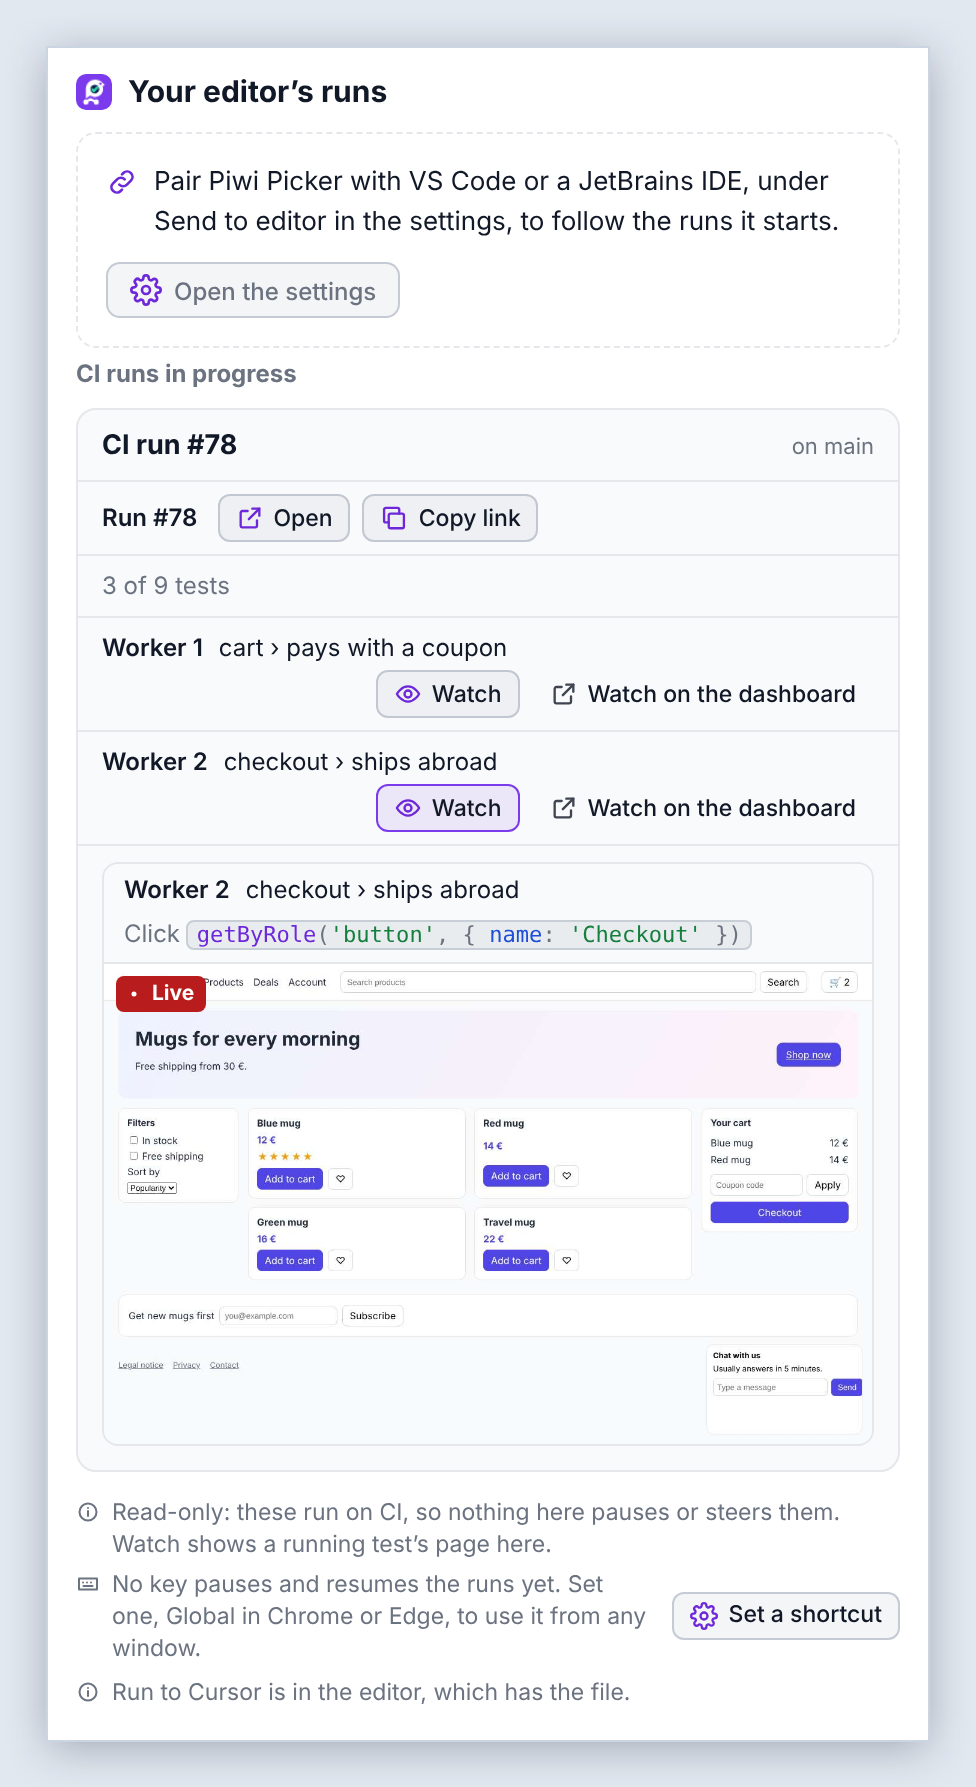
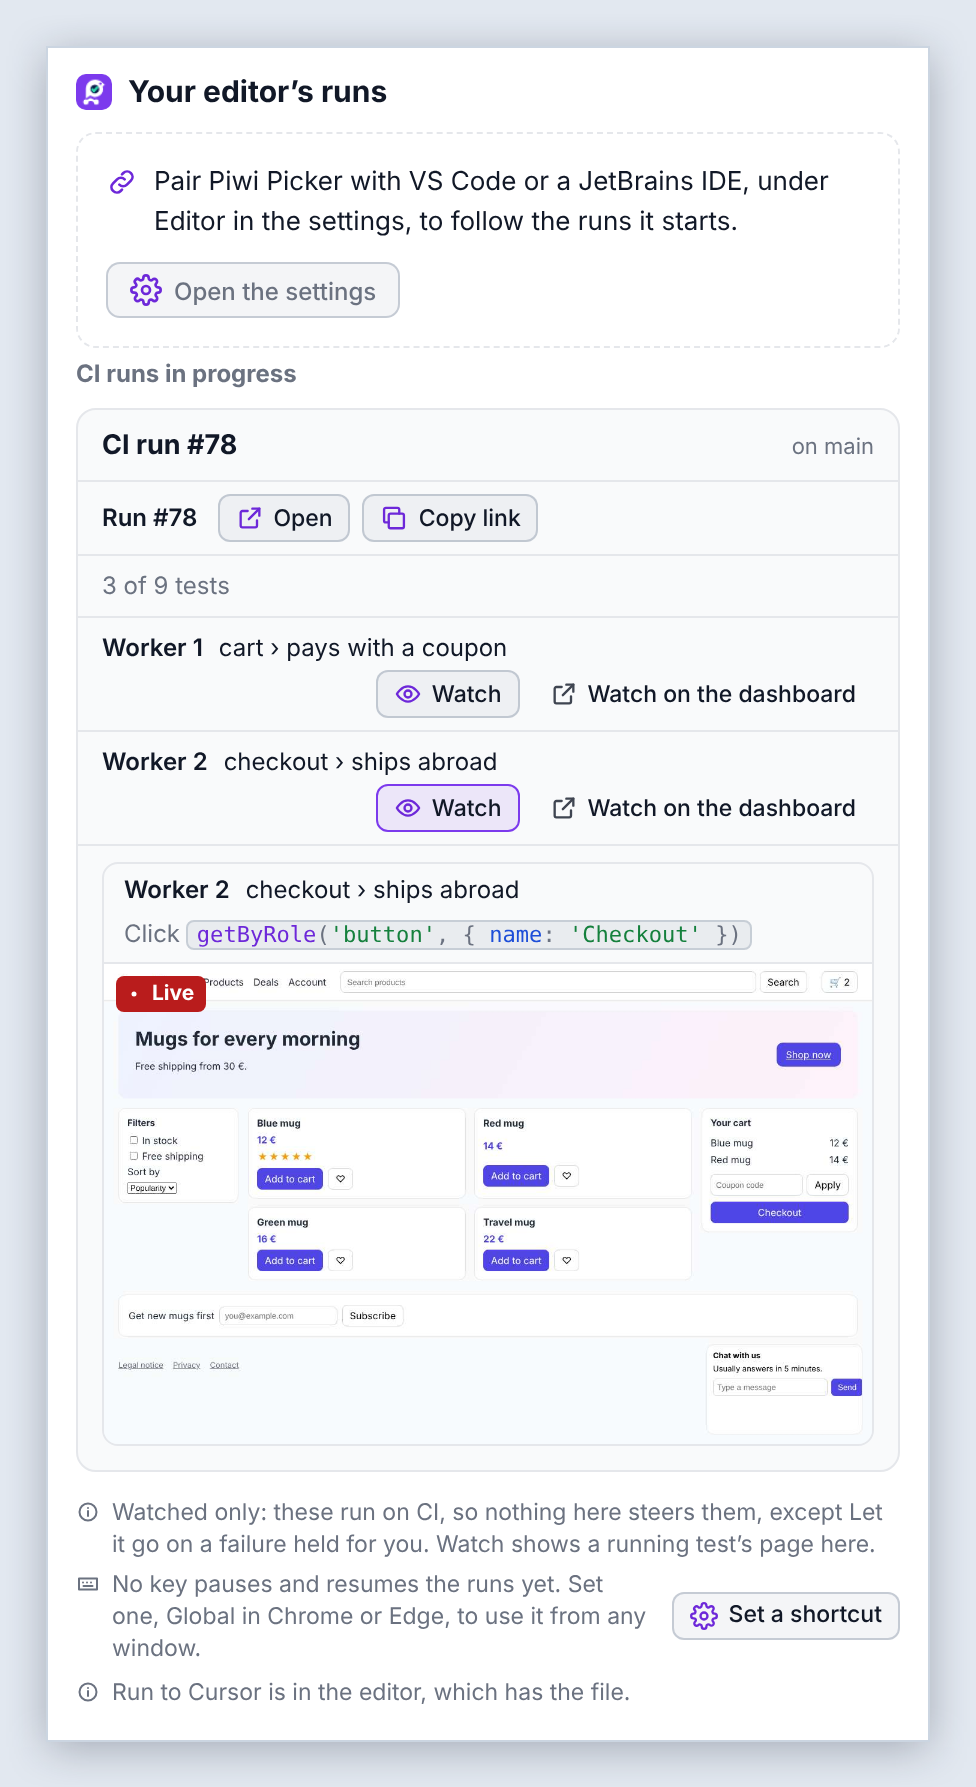
fix(extension): ask Let it go once per CI hold, and name it as the one thing that steers a CI run
The Runs window keeps Let it go off once asked of a hold until that hold ends,
or until the instance refuses it (LetGoAsks and ciHoldKey in the run model),
so a second press no longer gets a refusal in place of the answer. The CI
runs' note says what reaches them in all five languages: nothing but Let it
go on a failure held for you. The end-to-end check tells the instance's
refusal from the window's own words.

Claude-Session: https://claude.ai/code/session_01ADXAbeVo5hXs63eeexKcKH

Changed region(s): [[0.123, 0.831, 0.8607, 0.8926], [0.2459, 0.1231, 0.7377, 0.1539], [0.8607, 0.8618, 0.8914, 0.8926]]

diff --git a/apps/extension/src/runs/main.ts b/apps/extension/src/runs/main.ts
@@ -23,7 +23,16 @@ import {
   runLevelControls,
   type Control,
 } from '@piwitests/run-model/controls';
-import { CI_READ_ONLY, ciHoldWords, ciRunName, ciRunWhere, offersLetGo, type CiHold } from '@piwitests/run-model/ci';
+import {
+  CI_READ_ONLY,
+  LetGoAsks,
+  ciHoldKey,
+  ciHoldWords,
+  ciRunName,
+  ciRunWhere,
+  offersLetGo,
+  type CiHold,
+} from '@piwitests/run-model/ci';
 import {
   asksLaneTextAgain,
   callWait,
@@ -1297,8 +1306,6 @@ interface CiView extends RunsCiLane {
   call: string | null;
   /** The instance said this window's watch of the lane counts as a controller's: **Let it go** may be offered. */
   controller: boolean;
-  /** **Let it go** waits for its answer. */
-  lettingGo: boolean;
   /** What **Let it go** came to, until the lane's hold changes. */
   letGoNote: { ok: boolean; text: string } | null;
 }
@@ -1342,7 +1349,6 @@ function toggleCi(lane: RunsCiLane): void {
     test: null,
     call: null,
     controller: false,
-    lettingGo: false,
     letGoNote: null,
   };
   askCi(ciView);
@@ -1460,10 +1466,15 @@ function heardCiController(heard: RunsCiLane & { controller: boolean }): void {
   render();
 }
 
-/** **Let it go** on the held failure of the CI lane watched: the instance's sentence, or why not, under the hold. */
-async function letGoCi(view: CiView): Promise<void> {
-  if (view.lettingGo) return;
-  view.lettingGo = true;
+/** **Let it go** asked of each CI lane's hold: its button off from the ask until that hold ends or is refused. */
+const letGoAsks = new LetGoAsks();
+
+/**
+ * **Let it go** on the held failure of the CI lane watched, once per hold (`letGoAsks`): the instance's sentence, or
+ * why not, under the hold; a refusal lets it be asked again.
+ */
+async function letGoCi(view: CiView, hold: CiHold): Promise<void> {
+  if (!letGoAsks.ask(ciLaneKey(view), ciHoldKey(hold))) return;
   render();
   const lane = { runId: view.runId, shard: view.shard, lane: view.lane };
   const answer = await answered(
@@ -1471,8 +1482,8 @@ async function letGoCi(view: CiView): Promise<void> {
     { ok: false, message: '', ci: 'offline' },
     { ok: false, message: '', ci: 'late' },
   );
+  if (!answer.ok) letGoAsks.refused(ciLaneKey(view), ciHoldKey(hold));
   if (ciView !== view) return;
-  view.lettingGo = false;
   const text = answer.ok ? answer.message : letGoRefusalText(answer);
   view.letGoNote = text ? { ok: answer.ok, text } : null;
   if (text) announce(text);
@@ -2853,7 +2864,8 @@ function renderCiView(run: RunsCiRun, view: CiView): HTMLElement {
 function renderCiHeld(view: CiView, hold: CiHold): HTMLElement {
   const key = `ci|${ciLaneKey(view)}|held`;
   const offered = offersLetGo(hold, { shows: view.status === 'on', controller: view.controller });
-  return part(key, [hold, offered, view.lettingGo, view.letGoNote], () => {
+  const asked = letGoAsks.asked(ciLaneKey(view), ciHoldKey(hold));
+  return part(key, [hold, offered, asked, view.letGoNote], () => {
     const words = ciHoldWords(hold, runsSpeaker);
     const box = element('div', 'ci-held-box');
     box.setAttribute('role', 'status');
@@ -2866,12 +2878,12 @@ function renderCiHeld(view: CiView, hold: CiHold): HTMLElement {
       const letGo = makeButton(
         runsSpeaker.say('runs_letGo'),
         (event) => {
-          if (!pressedHeld(event)) void letGoCi(view);
+          if (!pressedHeld(event)) void letGoCi(view, hold);
         },
         { icon: 'play', small: true, title: runsSpeaker.say('runs_letGoTitle') },
       );
       letGo.dataset.focus = `ci|${ciLaneKey(view)}|let-go`;
-      if (view.lettingGo) letGo.setAttribute('aria-disabled', 'true');
+      if (asked) letGo.setAttribute('aria-disabled', 'true');
       box.append(element('div', 'piwi-actions', letGo));
     }
     if (view.letGoNote) {

diff --git a/packages/run-model/tests/ci.test.ts b/packages/run-model/tests/ci.test.ts
@@ -5,6 +5,8 @@ import {
   ciRunName,
   ciRunWhere,
   ciRunsListed,
+  LetGoAsks,
+  ciHoldKey,
   ciHoldOf,
   ciHoldWords,
   ciTally,
@@ -87,7 +89,7 @@ describe('the CI runs of a project in progress', () => {
     expect(where(run(78), true)).toBe('Shop, on feature/pay');
     expect(where(run(78, { branch: null }), true)).toBe('Shop');
     expect(where(run(78, { branch: null }), false)).toBeNull();
-    expect(en.say(CI_READ_ONLY.key)).toContain('Read-only');
+    expect(en.say(CI_READ_ONLY.key)).toContain('nothing here steers them, except Let it go on a failure held for you');
   });
 });
 
@@ -161,5 +163,40 @@ describe('a CI test held at its failure for its controllers', () => {
     expect(offersLetGo(hold, { shows: true, controller: false })).toBe(false);
     expect(offersLetGo(hold, { shows: false, controller: true })).toBe(false);
     expect(offersLetGo(null, { shows: true, controller: true })).toBe(false);
+  });
+});
+
+describe('Let it go asked of a CI hold', () => {
+  const hold = (worker: number, until: number | null = 1_763_727_900_000) => ({
+    worker: { shard: null, worker, slot: 1 },
+    call: { title: 'boom', file: null, line: null },
+    until,
+    heldFor: [],
+  });
+
+  it('names each hold of each worker apart', () => {
+    expect(ciHoldKey(hold(4))).toBe(':4:1763727900000');
+    expect(ciHoldKey(hold(4, null))).toBe(':4:');
+    expect(ciHoldKey({ ...hold(4), worker: { shard: 2, worker: 4, slot: 1 } })).toBe('2:4:1763727900000');
+  });
+
+  it('is asked once per hold of each lane, again only after a refusal or for the lane’s next hold', () => {
+    const asks = new LetGoAsks();
+    expect(asks.ask('lane-2', 'a')).toBe(true);
+    expect(asks.asked('lane-2', 'a')).toBe(true);
+    // Asked again, the same hold waits or went through: no second ask.
+    expect(asks.ask('lane-2', 'a')).toBe(false);
+    // Another lane's ask is its own.
+    expect(asks.asked('lane-3', 'b')).toBe(false);
+    expect(asks.ask('lane-3', 'b')).toBe(true);
+    asks.refused('lane-3', 'b');
+    expect(asks.asked('lane-3', 'b')).toBe(false);
+    expect(asks.asked('lane-2', 'a')).toBe(true);
+    // The lane's next hold is asked anew.
+    expect(asks.asked('lane-2', 'c')).toBe(false);
+    expect(asks.ask('lane-2', 'c')).toBe(true);
+    // A refusal of a hold no longer asked changes nothing.
+    asks.refused('lane-2', 'a');
+    expect(asks.asked('lane-2', 'c')).toBe(true);
   });
 });

diff --git a/apps/extension/tests/e2e/runs-ci.spec.ts b/apps/extension/tests/e2e/runs-ci.spec.ts
@@ -166,18 +166,29 @@ test('a CI test held at its failure shows its hold, and Let it go on a controlle
   await expect(held).toContainText('Expected "Shipped", received "Pending"');
   await expect(held).toContainText('tests/checkout.spec.ts:42');
   await expect(held).toContainText('The CI job’s own timeout still runs.');
-  await held.getByRole('button', { name: 'Let it go' }).click();
+  // The instance's refusal, in its own words: Let it go may be asked again.
+  instance.letGoAnswer = { status: 409, body: { message: 'The instance refuses this let-go for now' } };
+  const letGo = held.getByRole('button', { name: 'Let it go' });
+  await letGo.click();
   await expect.poll(() => instance.letGos.length).toBe(1);
   expect(instance.letGos[0]).toEqual({
     key: instance.key,
     body: { watch: 'watch-0123456789ab', shard: null, worker: 5, slot: 1 },
   });
+  await expect(held).toContainText('The instance refuses this let-go for now.');
+  await expect(letGo).not.toHaveAttribute('aria-disabled', 'true');
+  instance.letGoAnswer = {
+    status: 200,
+    body: { success: true, message: 'The test goes on: it tears down as it would have, its result unchanged.' },
+  };
+  await letGo.click();
+  await expect.poll(() => instance.letGos.length).toBe(2);
   await expect(held).toContainText('The test goes on: it tears down as it would have, its result unchanged.');
-
-  // The instance's refusal, in its own words.
-  instance.letGoAnswer = { status: 409, body: { message: 'This worker holds no failing test now.' } };
-  await held.getByRole('button', { name: 'Let it go' }).click();
-  await expect(held).toContainText('This worker holds no failing test now.');
+  // Let go, the hold is asked no more until it ends: a press goes nowhere.
+  await expect(letGo).toHaveAttribute('aria-disabled', 'true');
+  await letGo.dispatchEvent('click');
+  await page.waitForTimeout(300);
+  expect(instance.letGos).toHaveLength(2);
 
   // The hold ends as the worker goes on.
   instance.worker({ ...HELD, paused: null });

diff --git a/packages/run-model/src/ci.ts b/packages/run-model/src/ci.ts
@@ -100,7 +100,7 @@ export function ciRunWhere(run: Pick<CiRun, 'branch' | 'project'>, severalProjec
   return project ? { key: 'runs_ciProject', args: { project } } : null;
 }
 
-/** What a surface says of every CI run it lists: they run on CI, read-only, and are watched from their page. */
+/** What a surface says of every CI run it lists: they run on CI, watched only but for Let it go on a held failure. */
 export const CI_READ_ONLY: RunMessage = { key: 'runs_ciReadOnly' };
 
 /**
@@ -210,4 +210,34 @@ export function ciHoldWords(
  */
 export function offersLetGo(hold: CiHold | null, watch: { shows: boolean; controller: boolean }): boolean {
   return !!hold && watch.shows && watch.controller;
+}
+
+/** A hold's key: its worker and its end, another for each hold of each worker. */
+export function ciHoldKey(hold: Pick<CiHold, 'worker' | 'until'>): string {
+  return `${hold.worker.shard ?? ''}:${hold.worker.worker}:${hold.until ?? ''}`;
+}
+
+/**
+ * **Let it go** asked of each lane's hold (by a surface's own key of the lane, and `ciHoldKey`): once per hold, its
+ * button off from the ask until that hold ends, asked again only after a refusal. The lane's next hold is asked anew.
+ */
+export class LetGoAsks {
+  private readonly holds = new Map<string, string>();
+
+  /** Whether Let it go was asked of the hold `hold` of `lane`, and waits for its answer or went through. */
+  asked(lane: string, hold: string): boolean {
+    return this.holds.get(lane) === hold;
+  }
+
+  /** Ask of the hold `hold` of `lane`: false when it was asked already. */
+  ask(lane: string, hold: string): boolean {
+    if (this.asked(lane, hold)) return false;
+    this.holds.set(lane, hold);
+    return true;
+  }
+
+  /** The ask of `hold` was refused: it may be asked again. */
+  refused(lane: string, hold: string): void {
+    if (this.asked(lane, hold)) this.holds.delete(lane);
+  }
 }

diff --git a/packages/run-model/src/words.ts b/packages/run-model/src/words.ts
@@ -181,7 +181,7 @@ export const RUN_WORDS_EN = {
   runs_ciWhereProject: '$project$, on $branch$',
   runs_ciProject: '$project$',
   runs_ciReadOnly:
-    'Read-only: these run on CI, so nothing here pauses or steers them. Watch shows a running test’s page here.',
+    'Watched only: these run on CI, so nothing here steers them, except Let it go on a failure held for you. Watch shows a running test’s page here.',
   // A run on the team instance: its number and page there, and sharing it live.
   runs_runNumber: 'Run #$id$',
   runs_openRunPage: 'Open',

diff --git a/apps/extension/ARCHITECTURE.md b/apps/extension/ARCHITECTURE.md
@@ -1179,10 +1179,11 @@ share, hold, input or pick, since they run on CI; a running test's **Watch** sho
   with **Watch on the dashboard**; a refusal (`RunsAnswer.ci`) is said there too, the instance's own sentence when it
   gave one. The view is read-only: no Interact, input, pick or control.
 - **Held**: a run's `live-worker` events say a worker's test held at its failure for the run's controllers
-  (`readCiHold`, kept by shard and worker), listed on its test (`RunsCiTest.held`, **Failed, held at its line**) and
+  (`readCiHold`, kept by shard and worker, forgotten as the run's stream opens again, and a test's only from its own
+  worker), listed on its test (`RunsCiTest.held`, **Failed, held at its line**) and
   shown above the lane watched in the run page's words (`ciHoldWords`). The watch's `hello` says whether it counts as
   a controller's, which its windows hear (`ci-controller`); only then, and only on the lane the window watches
-  (`offersLetGo`), **Let it go** sends `ci-let-go`, which the worker posts on that watch with the held worker
+  (`offersLetGo`), **Let it go** sends `ci-let-go` once per hold (`LetGoAsks`, its button off until the hold ends or is refused), which the worker posts on that watch with the held worker
   (`CiRunsWatch.held`, `letGoCiTest`), saying why not (`unwatched`, `uncontrolled`, `unheld`) or the instance's
   sentence.
 

diff --git a/apps/docs/features/runs-window.md b/apps/docs/features/runs-window.md
@@ -26,9 +26,10 @@ then each worker's test and whether it runs or where it stopped (the file and li
 the page). A run that ended says how: passed, failed with its first
 failure, timed out or interrupted. The count and the outcome need `@piwitests/reporter` newer than 0.67.0. A run
 without [**Watch**](#watch-live) and no test stopped says how one stops: a breakpoint, a `page.pause()` or **Pause**. A run [started outside Piwi](./terminal-runs) shows too, marked **Terminal** or **Test runner**.
-The CI runs in progress of the projects your [connection](./extension-connection) maps show read-only, through that
-instance, read again every 15 seconds while the window is open, with **Open** and their running tests, each with **Watch**
-([A CI run of your branch](./editor-ci-runs)), and **Let it go** on a [held failure](./hold-ci-failure#where-it-shows).
+The CI runs in progress of the projects your [connection](./extension-connection) maps show, watched only, through
+that instance, read again every 15 seconds while the window is open, with **Open** and their running tests, each with
+**Watch** ([A CI run of your branch](./editor-ci-runs)): nothing steers them, except **Let it go** on a
+[failure held for you](./hold-ci-failure#where-it-shows).
 
 ## The controls
 
